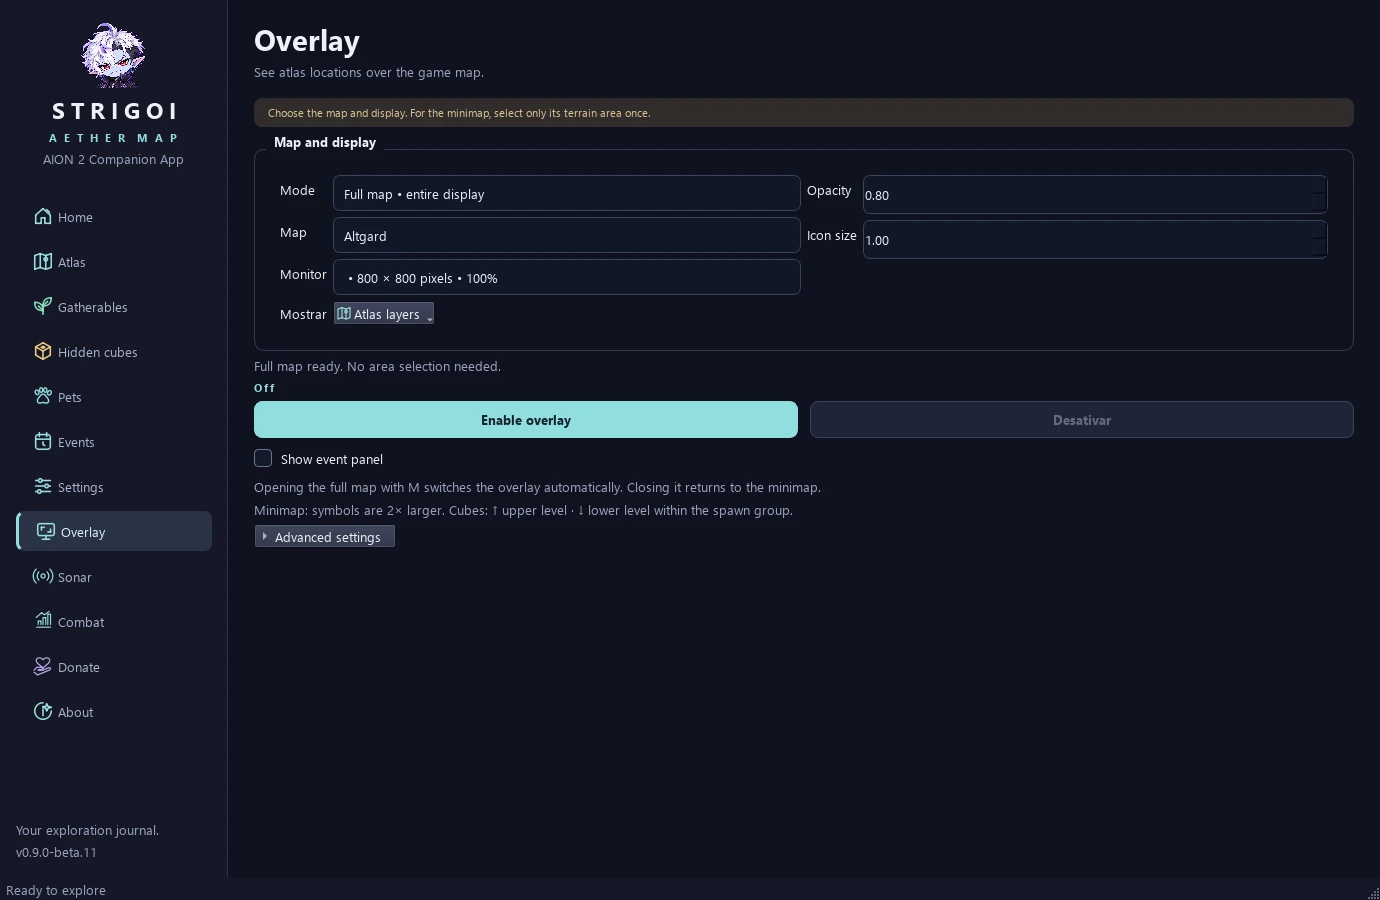
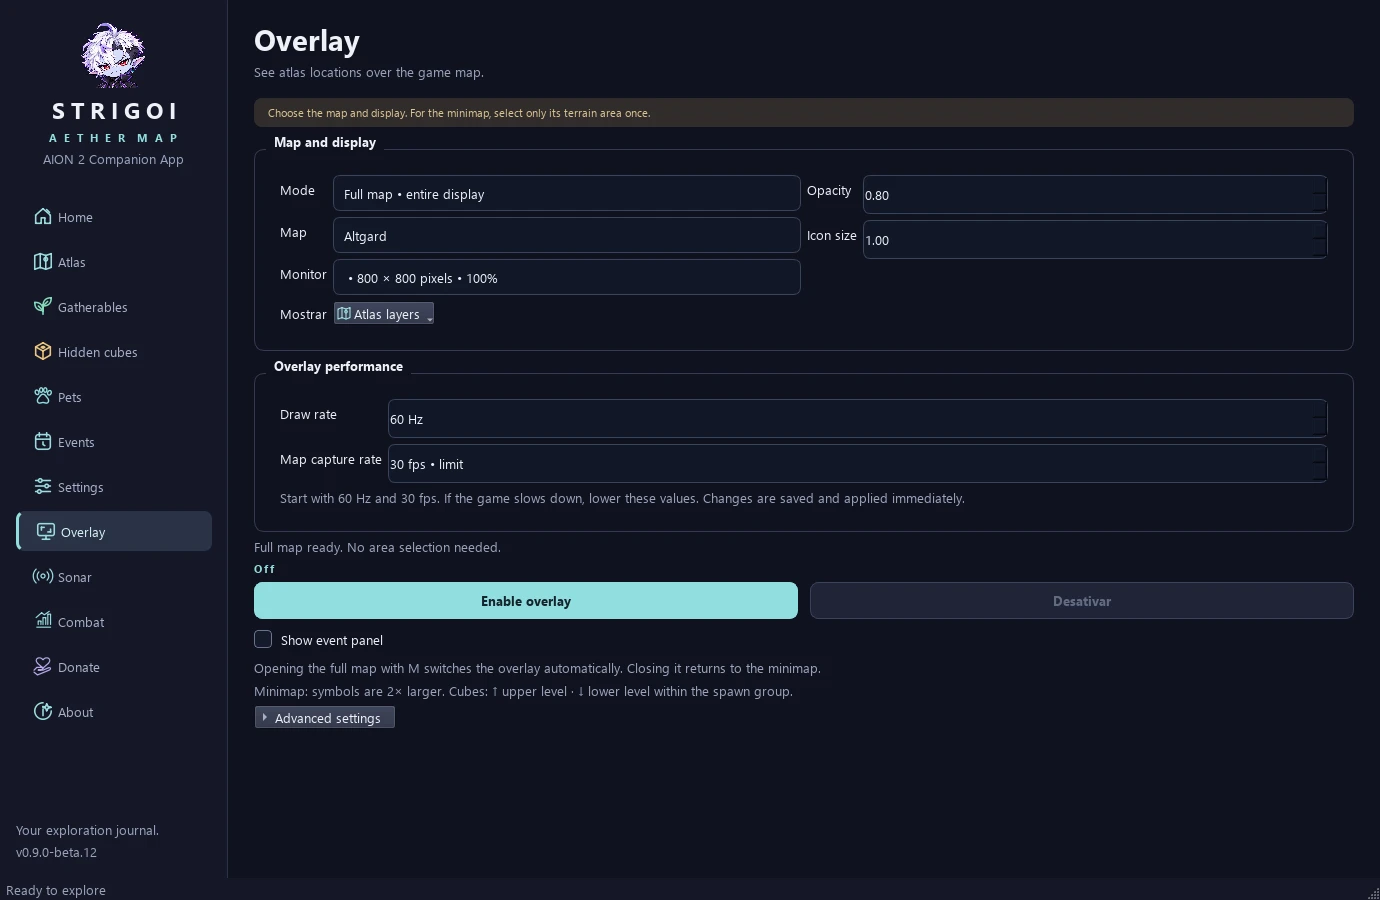
Publish beta 12 downloads and visible performance guide

Changed region(s): [[0.187, 0.4044, 0.9659, 0.8089], [0.7478, 0.4356, 0.8101, 0.4978], [0.9348, 0.4356, 0.9659, 0.4978]]

diff --git a/website/index.html b/website/index.html
@@ -30,10 +30,10 @@
   <main id="main">
     <section class="hero container">
       <div class="hero-copy">
-        <div class="eyebrow"><span class="live-dot"></span>AION 2 COMPANION <span class="version-pill">v0.9.0-beta.11</span></div>
+        <div class="eyebrow"><span class="live-dot"></span>AION 2 COMPANION <span class="version-pill">v0.9.0-beta.12</span></div>
         <h1 data-i18n="hero.title">Sua próxima<br>descoberta<br><em>começa aqui.</em></h1>
         <p class="hero-description" data-i18n="hero.description">Mapas, coletas, cubos, pets, eventos e combate em um só lugar. Aether cuida do mapa. Você vive a aventura.</p>
-        <div class="hero-buttons"><a class="button primary" href="https://github.com/jpgalvao-architect/strigoi-aether-map/releases/download/v0.9.0-beta.11/StrigoiAetherMap-Setup-0.9.0-beta.11.exe"><svg viewBox="0 0 24 24" fill="none" stroke="currentColor" stroke-width="1.8" aria-hidden="true"><path d="M12 3v12m-5-5 5 5 5-5M4 16v5h16v-5"/></svg><span data-i18n="download.installer">Baixar instalador</span></a><a class="button secondary" href="#explore"><span data-i18n="hero.tour">Conhecer o app</span><span aria-hidden="true">↗</span></a><a class="button secondary" href="guide.html" data-i18n="start.guide">Abrir guia interativo</a></div>
+        <div class="hero-buttons"><a class="button primary" href="https://github.com/jpgalvao-architect/strigoi-aether-map/releases/download/v0.9.0-beta.12/StrigoiAetherMap-Setup-0.9.0-beta.12.exe"><svg viewBox="0 0 24 24" fill="none" stroke="currentColor" stroke-width="1.8" aria-hidden="true"><path d="M12 3v12m-5-5 5 5 5-5M4 16v5h16v-5"/></svg><span data-i18n="download.installer">Baixar instalador</span></a><a class="button secondary" href="#explore"><span data-i18n="hero.tour">Conhecer o app</span><span aria-hidden="true">↗</span></a><a class="button secondary" href="guide.html" data-i18n="start.guide">Abrir guia interativo</a></div>
         <p class="download-note"><svg viewBox="0 0 24 24" aria-hidden="true"><path fill="currentColor" d="m2 4 9-1v9H2zm11-1 9-1v10h-9zM2 14h9v9l-9-1zm11 0h9v10l-9-1z"/></svg><span data-i18n="hero.platform">Windows 10/11 · 64 bits · PT-BR / EN-US</span></p>
         <div class="hero-bottom"><span data-i18n="hero.free">Gratuito, com código aberto</span><span class="divider-dot">·</span><a href="https://github.com/jpgalvao-architect/strigoi-aether-map/blob/main/LICENSE" data-i18n="hero.license">Código GPLv3</a></div>
       </div>
@@ -50,12 +50,12 @@
     <section class="container explore-section" id="explore">
       <div class="section-heading"><div><p class="eyebrow" data-i18n="explore.eyebrow">MENOS ALT-TAB. MAIS EXPLORAÇÃO.</p><h2 data-i18n="explore.title">Um mapa que acompanha<br>a sua jornada.</h2></div><p data-i18n="explore.description">Escolha suas camadas, registre as visitas e deixe o Strigoi acompanhar o que importa para você.</p></div>
       <div class="showcase-tabs" role="tablist" aria-label="Conheça as telas" data-i18n-aria="showcase.label"><button type="button" role="tab" id="tab-atlas" aria-selected="true" aria-controls="showcase-panel" tabindex="0" data-tab="atlas"><img src="assets/icons/atlas.svg" alt=""><span data-i18n="tab.atlas">Atlas</span></button><button type="button" role="tab" id="tab-overlay" aria-selected="false" aria-controls="showcase-panel" tabindex="-1" data-tab="overlay"><img src="assets/icons/overlay.svg" alt=""><span data-i18n="tab.overlay">Overlay</span></button><button type="button" role="tab" id="tab-events" aria-selected="false" aria-controls="showcase-panel" tabindex="-1" data-tab="events"><img src="assets/icons/events.svg" alt=""><span data-i18n="tab.events">Eventos</span></button><button type="button" role="tab" id="tab-sonar" aria-selected="false" aria-controls="showcase-panel" tabindex="-1" data-tab="sonar"><img src="assets/icons/sonar.svg" alt=""><span>Sonar</span></button><button type="button" role="tab" id="tab-combat" aria-selected="false" aria-controls="showcase-panel" tabindex="-1" data-tab="combat"><img src="assets/icons/combat.svg" alt=""><span data-i18n="tab.combat">Combate</span></button><button type="button" role="tab" id="tab-pets" aria-selected="false" aria-controls="showcase-panel" tabindex="-1" data-tab="pets"><img src="assets/icons/pets.svg" alt=""><span data-i18n="tab.pets">Pets</span></button></div>
-      <div class="showcase" id="showcase-panel" role="tabpanel" aria-labelledby="tab-atlas" tabindex="0"><div class="window-chrome"><span class="window-dots"><i></i><i></i><i></i></span><span>STRIGOI AETHER MAP <span class="chrome-version">/ v0.9.0-beta.11</span></span><span class="window-indicator" data-i18n="showcase.actual">TELA REAL DO APP</span></div><img id="app-screenshot" src="assets/app-atlas-pt_BR.webp" alt="Atlas do aplicativo exibindo o mapa real de Altgard" data-i18n-alt="screen.atlas" width="2070" height="1350" loading="lazy"><div class="showcase-caption"><span id="showcase-number">01 / 05</span><div><h3 id="showcase-title" data-i18n="showcase.atlas.title">Seu atlas. Suas camadas.</h3><p id="showcase-description" data-i18n="showcase.atlas.description">Veja ervas e cubos juntos, filtre os recursos e marque os lugares que você já visitou.</p></div><img id="showcase-icon" src="assets/icons/atlas.svg" width="40" height="40" alt=""></div></div>
+      <div class="showcase" id="showcase-panel" role="tabpanel" aria-labelledby="tab-atlas" tabindex="0"><div class="window-chrome"><span class="window-dots"><i></i><i></i><i></i></span><span>STRIGOI AETHER MAP <span class="chrome-version">/ v0.9.0-beta.12</span></span><span class="window-indicator" data-i18n="showcase.actual">TELA REAL DO APP</span></div><img id="app-screenshot" src="assets/app-atlas-pt_BR.webp" alt="Atlas do aplicativo exibindo o mapa real de Altgard" data-i18n-alt="screen.atlas" width="2070" height="1350" loading="lazy"><div class="showcase-caption"><span id="showcase-number">01 / 05</span><div><h3 id="showcase-title" data-i18n="showcase.atlas.title">Seu atlas. Suas camadas.</h3><p id="showcase-description" data-i18n="showcase.atlas.description">Veja ervas e cubos juntos, filtre os recursos e marque os lugares que você já visitou.</p></div><img id="showcase-icon" src="assets/icons/atlas.svg" width="40" height="40" alt=""></div></div>
       <p class="source-note" data-i18n="explore.source">Imagens reais dos mapas e posições comunitárias com origem documentada. Os marcadores indicam locais possíveis, não spawns garantidos.</p>
     </section>
     <section class="sonar-section" id="sonar"><div class="container sonar-grid"><div class="sonar-visual" aria-hidden="true"><div class="sonar-ring ring-1"></div><div class="sonar-ring ring-2"></div><div class="sonar-ring ring-3"></div><img class="sonar-cube" src="assets/icons/cube.svg" alt="" width="88" height="88"><img class="sonar-alert" src="assets/sonar-alert-pt_BR.webp" data-alert-image alt="" width="350" height="181" loading="lazy"><span class="visual-caption" data-i18n="sonar.visual">UMA PISTA SONORA. UM AVISO VISUAL.</span></div><div class="sonar-copy"><p class="eyebrow" data-i18n="sonar.eyebrow">ACESSIBILIDADE AUDITIVA</p><h2 data-i18n="sonar.title">Uma pista que<br>você pode <em>ver.</em></h2><p data-i18n="sonar.description">O Sonar procura indícios do som do cubo e mostra um aviso com barra de intensidade e histórico recente. O volume do jogo influencia a leitura.</p><ul class="check-list"><li data-i18n="sonar.point1">Selecione o aplicativo do jogo e ative quando quiser.</li><li data-i18n="sonar.point2">Sem microfone, gravação ou envio do áudio.</li><li data-i18n="sonar.point3">O Sonar começa desligado a cada abertura.</li></ul><p class="accessibility-note" data-i18n="sonar.note">Desenvolvido como recurso de acessibilidade para pessoas surdas ou com deficiência auditiva. O aviso é uma pista: não confirma o cubo nem revela sua posição exata.</p></div></div></section>
     <section class="container start-section"><p class="eyebrow" data-i18n="start.eyebrow">DO DOWNLOAD À AVENTURA</p><h2 data-i18n="start.title">Pronto em poucos passos.</h2><div class="steps"><article><span class="step-number">01</span><h3 data-i18n="start.one.title">Instale e escolha o idioma</h3><p data-i18n="start.one.text">Baixe o instalador, leia os termos e escolha português ou inglês. Não precisa instalar Python.</p></article><article><span class="step-number">02</span><h3 data-i18n="start.two.title">Monte o seu mapa</h3><p data-i18n="start.two.text">Escolha as camadas do Atlas. A mesma seleção aparece no minimapa e no mapa grande.</p></article><article><span class="step-number">03</span><h3 data-i18n="start.three.title">Entre na aventura</h3><p data-i18n="start.three.text">Ative o overlay, selecione o terreno do minimapa uma vez e escolha o evento que quer acompanhar.</p></article></div><a class="button secondary guide-entry" href="guide.html" data-i18n="start.guide">Abrir guia interativo</a></section>
-    <section class="container download-section" id="download"><div class="download-box"><div><p class="eyebrow" data-i18n="download.eyebrow">SEU PEQUENO GUARDIÃO ESTÁ PRONTO</p><h2 data-i18n="download.title">Nos vemos em Atréia.</h2><p data-i18n="download.description">Escolha como quer usar o Strigoi. As duas versões têm os mesmos recursos e incluem o código-fonte.</p></div><div class="download-options"><a class="download-option recommended" href="https://github.com/jpgalvao-architect/strigoi-aether-map/releases/download/v0.9.0-beta.11/StrigoiAetherMap-Setup-0.9.0-beta.11.exe"><div class="option-heading"><span data-i18n="download.installer">Baixar instalador</span><span class="recommend-tag" data-i18n="download.recommended">Recomendado</span></div><p data-i18n="download.installer.detail">Atalhos, idioma inicial, desinstalação e assistente oficial do Npcap para Combate e Pets.</p><span class="option-meta">.EXE · 219.6 MB <span aria-hidden="true">↓</span></span></a><a class="download-option" href="https://github.com/jpgalvao-architect/strigoi-aether-map/releases/download/v0.9.0-beta.11/StrigoiAetherMap-0.9.0-beta.11-windows-x64.zip"><div class="option-heading"><span data-i18n="download.portable">Baixar portátil</span><span aria-hidden="true">↗</span></div><p data-i18n="download.portable.detail">Extraia a pasta inteira e abra o app.</p><span class="option-meta">.ZIP · 258.1 MB <span aria-hidden="true">↓</span></span></a></div><p class="source-note" data-i18n="download.beta">Beta 11: coleção de Pets com retratos originais, favoritos, locais de referência e painel compacto. A coleção inicial foi conferida em SA; ganho de almas ainda aguarda conferência real. O radar com distância e direção ainda não está disponível. Combate e PvP continuam experimentais.</p><div class="download-links"><span>v0.9.0-beta.11 · Windows x64</span><a href="terms.html" data-i18n="download.terms">Ler os termos de uso</a><a href="https://github.com/jpgalvao-architect/strigoi-aether-map/releases/download/v0.9.0-beta.11/SHA256SUMS.txt" data-i18n="download.checksums">Verificar arquivos · SHA-256</a></div></div></section>
+    <section class="container download-section" id="download"><div class="download-box"><div><p class="eyebrow" data-i18n="download.eyebrow">SEU PEQUENO GUARDIÃO ESTÁ PRONTO</p><h2 data-i18n="download.title">Nos vemos em Atréia.</h2><p data-i18n="download.description">Escolha como quer usar o Strigoi. As duas versões têm os mesmos recursos e incluem o código-fonte.</p></div><div class="download-options"><a class="download-option recommended" href="https://github.com/jpgalvao-architect/strigoi-aether-map/releases/download/v0.9.0-beta.12/StrigoiAetherMap-Setup-0.9.0-beta.12.exe"><div class="option-heading"><span data-i18n="download.installer">Baixar instalador</span><span class="recommend-tag" data-i18n="download.recommended">Recomendado</span></div><p data-i18n="download.installer.detail">Atalhos, idioma inicial, desinstalação e assistente oficial do Npcap para Combate e Pets.</p><span class="option-meta">.EXE · 219.6 MB <span aria-hidden="true">↓</span></span></a><a class="download-option" href="https://github.com/jpgalvao-architect/strigoi-aether-map/releases/download/v0.9.0-beta.12/StrigoiAetherMap-0.9.0-beta.12-windows-x64.zip"><div class="option-heading"><span data-i18n="download.portable">Baixar portátil</span><span aria-hidden="true">↗</span></div><p data-i18n="download.portable.detail">Extraia a pasta inteira e abra o app.</p><span class="option-meta">.ZIP · 258.1 MB <span aria-hidden="true">↓</span></span></a></div><p class="source-note" data-i18n="download.beta">Beta 12: controles de frequência visíveis e ajustáveis durante o uso, com menos redesenhos e menor paralelismo no processamento do mapa. Comece com 60 Hz/30 fps e ajuste ao seu computador. Pets mantém coleção e locais de referência; radar ao vivo indisponível. Combate e PvP experimentais.</p><div class="download-links"><span>v0.9.0-beta.12 · Windows x64</span><a href="terms.html" data-i18n="download.terms">Ler os termos de uso</a><a href="https://github.com/jpgalvao-architect/strigoi-aether-map/releases/download/v0.9.0-beta.12/SHA256SUMS.txt" data-i18n="download.checksums">Verificar arquivos · SHA-256</a></div></div></section>
     <section class="container faq-section"><div><p class="eyebrow" data-i18n="faq.eyebrow">SEM MISTÉRIO</p><h2 data-i18n="faq.title">Antes de partir.</h2></div><div class="faq-list"><details><summary data-i18n="faq.one.q">O aplicativo modifica o jogo?</summary><p data-i18n="faq.one.a">Não. Os marcadores e avisos são janelas externas de overlay. O app analisa a imagem da tela e recebe o áudio pelo Windows; não injeta código nas DLLs, não altera arquivos nem lê a memória do AION 2. O Combate lê passivamente a conexão do jogo usando Npcap. Os termos descrevem as condições de uso.</p></details><details><summary data-i18n="faq.two.q">Funciona no minimapa e no mapa grande?</summary><p data-i18n="faq.two.a">Sim, com minimapa retangular e norte fixo. Selecione só o terreno do minimapa, sem a barra de título. Ao abrir o mapa grande com M, o overlay muda automaticamente; ao fechar, volta ao minimapa.</p></details><details><summary data-i18n="faq.three.q">A agenda é para a América do Sul?</summary><p data-i18n="faq.three.a">Há perfis de agenda SA, com fontes documentadas e horários no fuso que você escolher. Os mapas e locais possíveis vêm de bases comunitárias compartilhadas; as posições não foram verificadas individualmente em SA. Você pode consultar as fontes no aplicativo.</p></details><details><summary data-i18n="faq.four.q">Posso usar sem abrir o jogo?</summary><p data-i18n="faq.four.a">O Atlas, as visitas e a agenda local funcionam offline. Para usar overlay e Sonar, abra o jogo e ative esses recursos. Suas preferências e registros ficam no seu computador.</p></details><details><summary data-i18n="faq.five.q">Como troco o idioma depois de instalar?</summary><p data-i18n="faq.five.a">Abra Configurações → Idioma do aplicativo. A troca entre português do Brasil e inglês dos EUA é imediata. Ela não altera seus filtros, visitas, região ou fuso horário.</p></details><details><summary data-i18n="faq.six.q">Onde estão as licenças e o código?</summary><p data-i18n="faq.six.a">O código próprio usa GPLv3 e está no GitHub e nos downloads. Mapas, dados comunitários e componentes de terceiros mantêm seus direitos e licenças, incluindo CC BY-NC 4.0 para mapas e dados comunitários.</p><a href="https://github.com/jpgalvao-architect/strigoi-aether-map/blob/main/THIRD_PARTY.md" data-i18n="faq.licenses">Consultar licenças e créditos →</a></details></div></section>
     <section class="container support-section" id="support"><div class="support-copy"><img src="assets/icons/donate.svg" width="38" height="38" alt=""><h2 data-i18n="support.title">Curtiu a companhia?</h2><p data-i18n="support.description">Se meu trabalho te ajudou e você quiser retribuir, pode deixar uma força por aqui. Sem pressão: usar o app, mandar feedback e compartilhar com a galera já ajuda demais.</p><a class="button secondary" href="https://link.mercadopago.com.br/thothworlds" target="_blank" rel="noopener noreferrer"><span data-i18n="support.creator">Apoiar o criador</span><span aria-hidden="true">↗</span></a><small data-i18n="support.recipient">Apoio pessoal ao criador · Mercado Pago</small></div><div class="community-support"><p class="eyebrow" data-i18n="support.community.eyebrow">APOIE TAMBÉM A COMUNIDADE SURDA</p><p data-i18n="support.community.description">Você também pode contribuir diretamente com instituições brasileiras que apoiam pessoas surdas.</p><a href="https://assjp.org.br/junte-nos/seja-apoiador/" target="_blank" rel="noopener noreferrer">ASSJP<span>São José dos Pinhais</span><span aria-hidden="true">↗</span></a><a href="https://www.ascontagem.org.br/" target="_blank" rel="noopener noreferrer">ASC<span>Contagem</span><span aria-hidden="true">↗</span></a><small data-i18n="support.community.note">Doações feitas nos canais oficiais das instituições. Destinatários diferentes do apoio ao criador.</small></div></section>
   </main>

diff --git a/website/site.js b/website/site.js
@@ -23,7 +23,7 @@
     'screen.combat': 'Módulo Combate com dano observado, DPS e participação do grupo',
     'showcase.combat.title': 'Seu grupo. Seu dano observado.',
     'showcase.combat.description': 'A medição aguarda o jogo e o painel aparece nas instâncias reconhecidas. Ao sair, ele se oculta; a leitura continua. O menu rápido permite desativar a exibição, e o histórico fica preservado.',
-    'download.beta': 'Beta 11: coleção de Pets com retratos originais, favoritos, locais de referência e painel compacto. A coleção inicial foi conferida em SA; ganho de almas ainda aguarda conferência real. O radar com distância e direção ainda não está disponível. Combate e PvP continuam experimentais.',
+    'download.beta': 'Beta 12: controles de frequência visíveis e ajustáveis durante o uso, com menos redesenhos e menor paralelismo no processamento do mapa. Comece com 60 Hz/30 fps e ajuste ao seu computador. Pets mantém coleção e locais de referência; radar ao vivo indisponível. Combate e PvP experimentais.',
     'showcase.sonar.title': 'O som vira uma pista na tela.',
     'showcase.sonar.description': 'Ative o Sonar e acompanhe a intensidade estimada do som reconhecido na barra e no histórico do aviso.',
   });
@@ -62,7 +62,7 @@
     'screen.combat': 'Combat module with observed damage, DPS and group share',
     'showcase.combat.title': 'Your group. Your observed damage.',
     'showcase.combat.description': 'Capture waits for the game and the panel appears in recognized instances. On exit it hides while capture continues. Quick controls can disable panel display, and history is preserved.',
-    'download.beta': 'Beta 11 adds Pets with original portraits, favorites, reference locations and a compact panel. The initial collection matched SA gameplay; soul gains still await a live check. Live radar distance and direction are not available yet. Combat and PvP remain experimental.',
+    'download.beta': 'Beta 12 adds visible frequency controls adjustable during use, fewer redraws, and lower map-processing parallelism. Start at 60 Hz/30 fps and adjust for your computer. Pets retains collection and reference sites; live radar unavailable. Combat and PvP remain experimental.',
     'showcase.sonar.title': 'Sound becomes a clue on screen.',
     'showcase.sonar.description': 'Enable Sonar and follow the estimated recognized sound intensity in the alert\'s bar and recent history.',
     'explore.source': 'Real map images and community locations with documented sources. Markers indicate possible locations, not guaranteed spawns.',

diff --git a/website/guide-content.js b/website/guide-content.js
@@ -466,16 +466,16 @@ window.StrigoiGuide = {
             "en_US": "Adjust after display changes"
           },
           "where": {
-            "pt_BR": "Overlay → seleção / Ajustes avançados",
-            "en_US": "Overlay → selection / Advanced settings"
+            "pt_BR": "Overlay → seleção / Fluidez do overlay",
+            "en_US": "Overlay → selection / Overlay performance"
           },
           "body": {
-            "pt_BR": "Refaça a seleção após mudar tamanho ou posição do minimapa, monitor, resolução ou escala do Windows. Ajuste Opacidade e Tamanho dos ícones. Se houver custo elevado, reduza a frequência visual nos ajustes avançados.",
-            "en_US": "Repeat selection after changing minimap size or position, monitor, resolution, or Windows scaling. Adjust Opacity and Icon size. If performance is affected, lower the visual rate in advanced settings."
+            "pt_BR": "Refaça a seleção após mudar tamanho ou posição do minimapa, monitor, resolução ou escala do Windows. Ajuste Opacidade e Tamanho dos ícones. Em Fluidez do overlay, escolha a frequência visual (15–360 Hz) e a leitura do mapa (10–60 fps no minimapa; até 30 fps no mapa grande). Os controles ficam visíveis e funcionam com o overlay ligado.",
+            "en_US": "Repeat selection after changing minimap size or position, monitor, resolution, or Windows scaling. Adjust Opacity and Icon size. In Overlay performance, choose the draw limit (15–360 Hz) and map reading rate (10–60 fps on the minimap; up to 30 fps on the full map). The controls are visible and work while the overlay is enabled."
           },
           "tip": {
-            "pt_BR": "240 Hz é uma meta de desenho. A leitura do mapa tem frequência separada; a taxa real depende do computador e monitor.",
-            "en_US": "240 Hz is a drawing target. Map reading has a separate rate; actual performance depends on computer and monitor."
+            "pt_BR": "Comece com 60 Hz e 30 fps; reduza para 30 Hz/15 fps se houver lentidão. A preferência é salva. Desenho e leitura têm limites separados; marcadores parados só são redesenhados quando necessário.",
+            "en_US": "Start at 60 Hz and 30 fps; lower to 30 Hz/15 fps if the game slows down. Your preference is saved. Drawing and reading have separate limits; stationary markers redraw only when needed."
           }
         }
       ],
